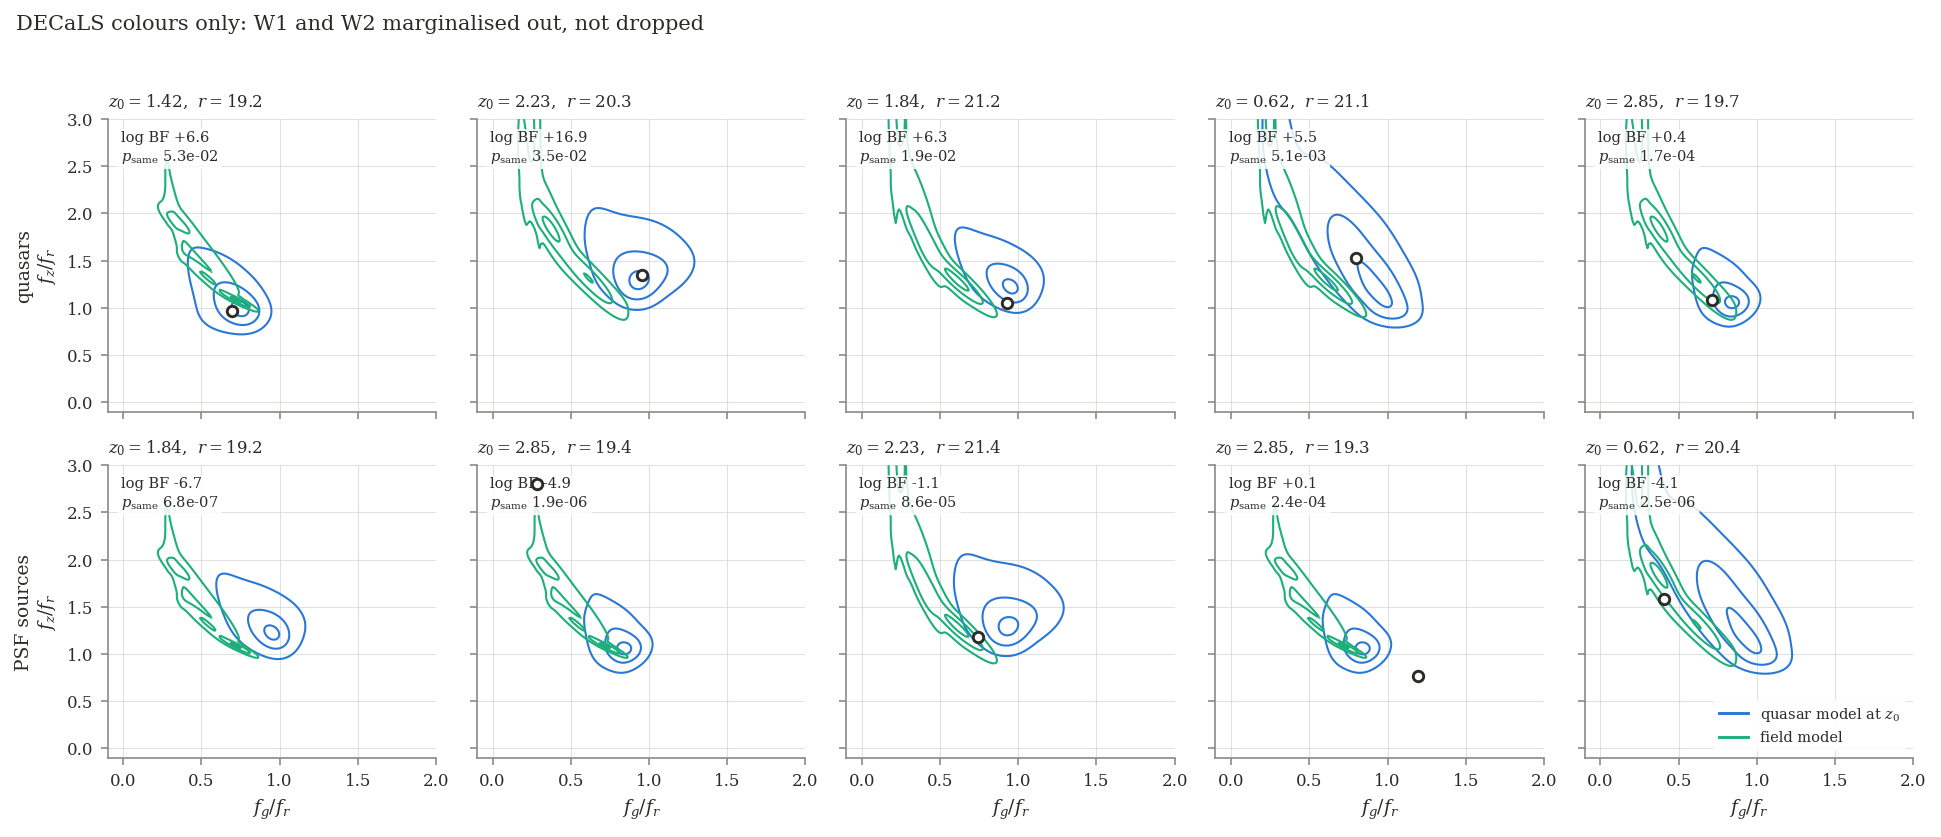
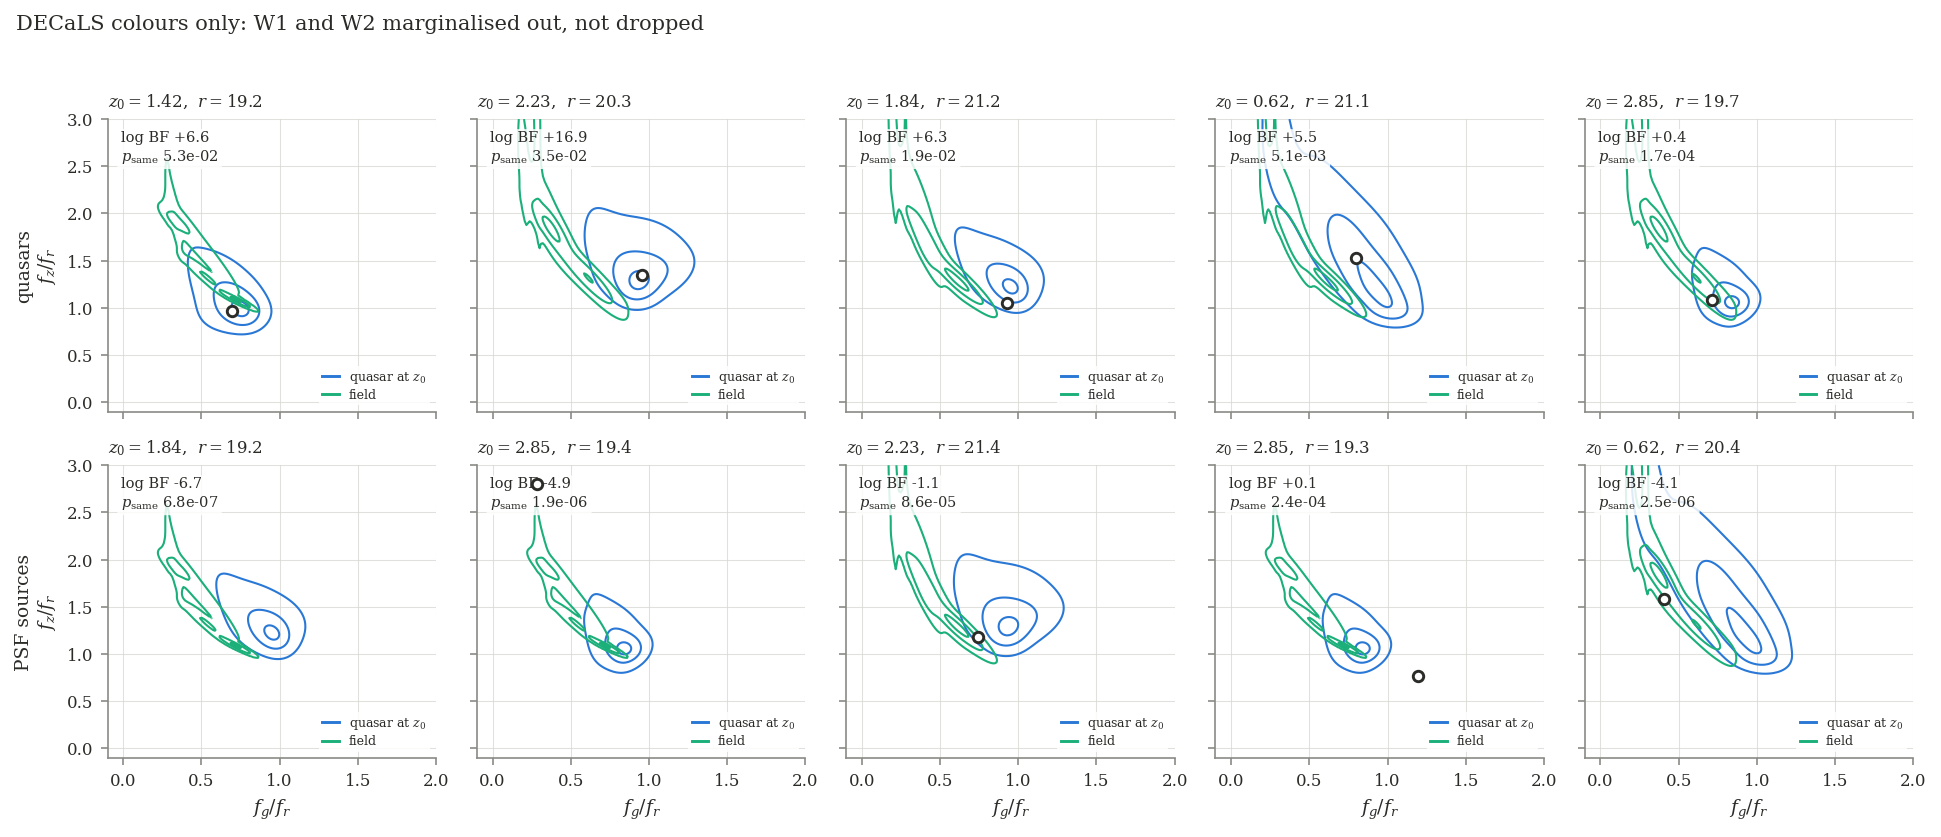
Legend in the bottom-right corner of every panel, not just one
Numbers for each object sit top-left, legend bottom-right, opposite corners so
neither crowds the other or the contours.

diff --git a/scripts/score_examples.py b/scripts/score_examples.py
@@ -261,14 +261,14 @@ def make_figure(qso, bkg, fq, iq, zq, fst, isx, rows, args):
                     bbox=dict(facecolor="white", edgecolor="none", alpha=0.85,
                               boxstyle="round,pad=0.25"))
             ax.set_xlim(-0.1, 2.0); ax.set_ylim(-0.1, 3.0)
+            ax.plot([], [], color=SERIES["same_z"], label="quasar at $z_0$")
+            ax.plot([], [], color=SERIES["background"], label="field")
+            ax.legend(loc="lower right", fontsize=6, framealpha=0.85,
+                      frameon=True, edgecolor="none", handlelength=1.3,
+                      borderpad=0.3, labelspacing=0.25)
             if row == 1:
                 ax.set_xlabel("$f_g/f_r$")
         axes[row, 0].set_ylabel(f"{tag}s\n$f_z/f_r$")
-    # Legend in the bottom-right panel, the emptiest corner of the grid.
-    axes[-1, -1].plot([], [], color=SERIES["same_z"], label="quasar model at $z_0$")
-    axes[-1, -1].plot([], [], color=SERIES["background"], label="field model")
-    axes[-1, -1].legend(loc="lower right", fontsize=7, framealpha=0.9,
-                        frameon=True, edgecolor="none")
     fig.suptitle("DECaLS colours only: W1 and W2 marginalised out, not dropped",
                  x=0.01, ha="left", fontsize=10)
     fig.tight_layout(rect=(0, 0, 1, 0.96))
